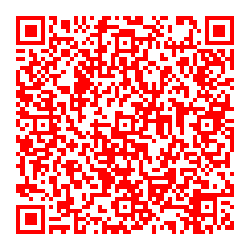
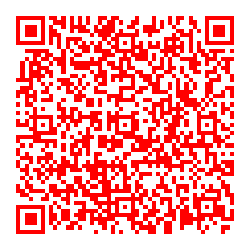
feat: add socket

diff --git a/app.js b/app.js
@@ -1,5 +1,4 @@
 const { app, server } = require("./bin/www");
-const io = require("./controller/socket.controller");
 const express = require("express");
 // console.log(app);
 const createError = require("http-errors");
@@ -20,15 +19,11 @@ app.use(express.urlencoded({ extended: false }));
 app.use(cookieParser());
 app.use(express.static(path.join(__dirname, "public")));
 
-// app.use("/", function (request, response, next) {
-//   const mainR = new indexRouter(io, "data");
-//   mainR.render(response);
-// });
+app.use("/qr", WhatsAppRouter);
 
-app.use("/qr", function (request, response, next) {
-  const connectR = new WhatsAppRouter(io);
-  connectR.start();
-  response.send("asd");
+app.use("/", function (request, response, next) {
+  const mainR = new indexRouter("data");
+  mainR.render(response);
 });
 
 // catch 404 and forward to error handler

diff --git a/controller/whatsapp.controller.js b/controller/whatsapp.controller.js
@@ -16,7 +16,7 @@ class WhatsAppController {
         "base64"
       );
 
-      this.sendQrClient(imageBuffer);
+      this.sendQrClient(imageBuffer, sessionId);
 
       // пишет qr в файл
       fs.writeFileSync(
@@ -26,14 +26,14 @@ class WhatsAppController {
     });
   }
 
-  sendQrClient(imageBuffer) {
+  sendQrClient(imageBuffer, sessionId) {
     console.log("send qr to client");
-    this.io.emit("qr", imageBuffer.toString("base64"));
+    this.io.emit("qr", `qr_code${sessionId ? "_" + sessionId : ""}.png`);
   }
 
   async getQr() {
     create({
-      sessionId: "name",
+      sessionId: "name2",
       qrLogSkip: false,
       useChrome: true,
       sessionDataPath: "./sessions",

diff --git a/routes/whatsapp.router.js b/routes/whatsapp.router.js
@@ -1,19 +1,11 @@
 var express = require("express");
 var router = express.Router();
+const io = require("../controller/socket.controller");
 const WhatsAppController = require("../controller/whatsapp.controller");
 
-class WhatsAppRouter {
-  constructor(io) {
-    this.io = io;
-  }
+router.get("/", async (req, res) => {
+  const whContr = new WhatsAppController(io);
+  res.send("asdasdasd");
+});
 
-  start() {
-    // router.get("/", async (req, res) => {
-
-    // });
-    const whContr = new WhatsAppController(this.io);
-    // whContr.start();
-  }
-}
-
-module.exports = WhatsAppRouter;
+module.exports = router;

diff --git a/routes/index.router.js b/routes/index.router.js
@@ -3,8 +3,8 @@ var router = express.Router();
 
 /* GET home page. */
 class Main {
-  constructor(socket, data) {
-    this.socket = socket;
+  constructor(data) {
+    // this.socket = socket;
     this.data = data;
   }
 
